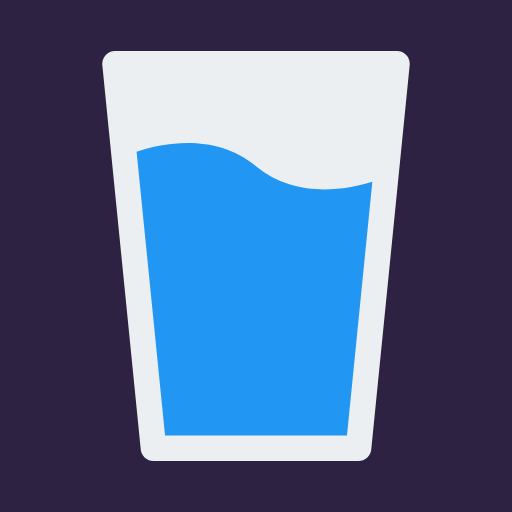
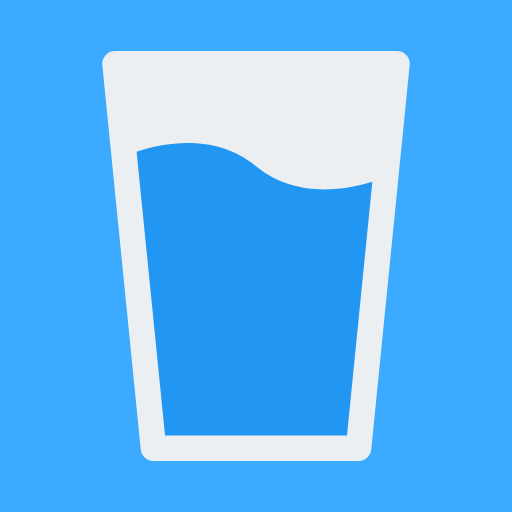
Style and HTML done!

diff --git a/src/pages/index.html b/src/pages/index.html
@@ -16,6 +16,7 @@
       property="og:image"
       content="https://maciejkorsan.com/wtf-gulp-starter/assets/img/cover.png"
     />
+    <link href="https://fonts.googleapis.com/css2?family=Roboto:wght@300&display=swap" rel="stylesheet">
 
     <!-- uncomment the line below to enable PWA  -->
     <link rel="manifest" href="manifest.json" />
@@ -141,11 +142,16 @@
     <link
       rel="apple-touch-startup-image"
       href="pwa/apple-splash-1136-640.png"
-      media="(device-width: 320px) and (device-height: 568px) and (-webkit-device-pixel-ratio: 2) and (orientation: landscape)"
+      media="(device-width: 320px) and (device-height: 568px) and (-webkit-device-pixel-ratio: 2) and (orientation: landscape)" 
     />
   </head>
   <body>
+      <h1 class="header">HYDRAPP</h1>
       <img class="hello__logo" src="../assets/img/Vector.svg" alt="Glass icon" />
-    </div>
+      <h1 class="counter">0</h1>
+    <div class="buttons">
+    <button class="button_add">Dodaj szklankę</button>
+    <button class="button_delete">Usuń szklankę</button>
+  </div>
   </body>
 </html>

diff --git a/src/scss/main.scss b/src/scss/main.scss
@@ -7,7 +7,61 @@ body {
   background: rgb(59, 170, 255);
   color: #fff;
   display: flex;
+  flex-direction: column;
   align-items: center;
   justify-content: center;
   min-height: 100vh;
+  font-family: "Roboto", sans-serif;
+}
+
+.hello__logo {
+  height: 400px;
+  margin-bottom: 250px;
+  z-index: 2;
+}
+
+.header {
+  margin-bottom: 70px;
+  font-size: 50px;
+}
+
+.buttons {
+  display: flex;
+  flex-direction: column;
+  margin-top: -230px;
+}
+
+.button_add {
+  padding: 10px;
+  width: 180px;
+  color: black;
+  font-size: 18px;
+  border-radius: 3px;
+  background-color: #fff;
+  border: none;
+  font-weight: bold;
+  &:hover{
+    background-color: rgb(219, 240, 255);
+  }
+}
+
+.button_delete {
+  margin-top: 15px;
+  width: 180px;
+  padding: 10px;
+  color: white;
+  background-color: rgba(128, 128, 128, 0);
+  border: none;
+  font-size: 14px;
+  &:hover {
+    color: rgb(219, 240, 255);
+  }
+}
+
+.counter{
+  z-index: 3;
+  position: absolute;
+  color: #000;
+  font-size: 112px;
+  margin-bottom: 20px;
 }
